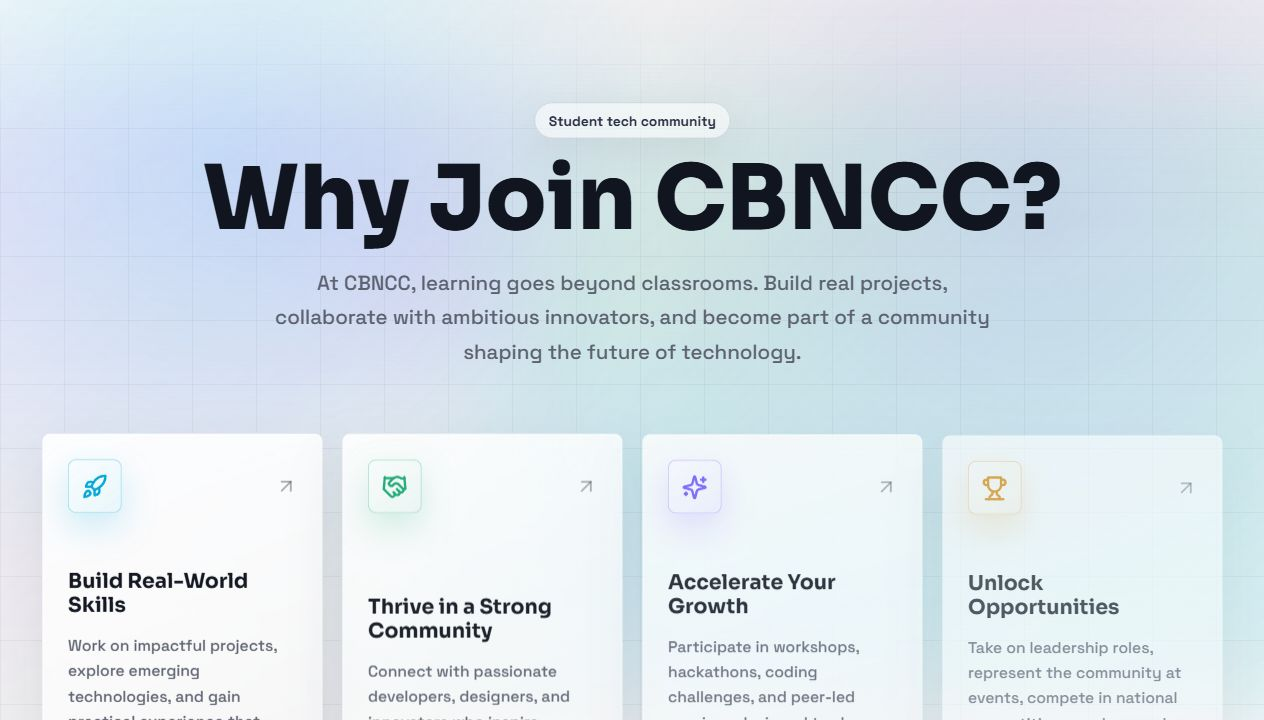
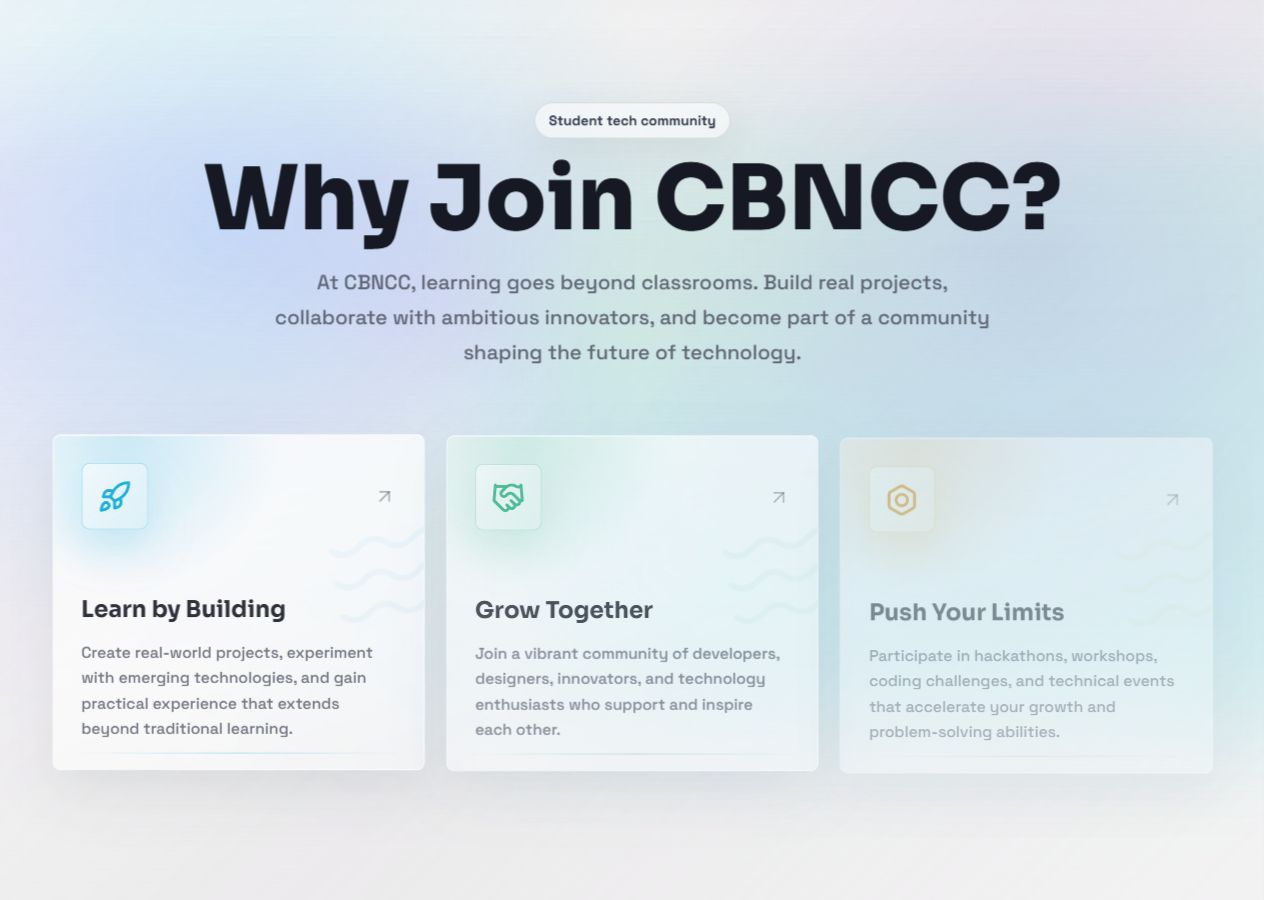
Create premium feature card section

diff --git a/src/styles.css b/src/styles.css
@@ -77,7 +77,7 @@ select {
 }
 
 .why-join__shell {
-  width: min(100%, 1180px);
+  width: min(100%, 1160px);
   margin: 0 auto;
 }
 
@@ -128,8 +128,8 @@ select {
 
 .why-join__grid {
   display: grid;
-  grid-template-columns: repeat(4, minmax(0, 1fr));
-  gap: clamp(1rem, 2vw, 1.25rem);
+  grid-template-columns: repeat(3, minmax(0, 1fr));
+  gap: clamp(1rem, 2vw, 1.35rem);
 }
 
 .benefit-card {
@@ -137,14 +137,15 @@ select {
   --card-glow: rgba(0, 167, 216, 0.2);
   position: relative;
   display: flex;
-  min-height: 22rem;
+  min-height: 21rem;
   flex-direction: column;
   justify-content: space-between;
   overflow: hidden;
   border: 1px solid rgba(255, 255, 255, 0.72);
   border-radius: 8px;
-  padding: clamp(1.2rem, 2vw, 1.55rem);
+  padding: clamp(1.25rem, 2.3vw, 1.75rem);
   background:
+    radial-gradient(circle at 20% 0%, var(--card-glow), transparent 34%),
     linear-gradient(145deg, rgba(255, 255, 255, 0.82), rgba(255, 255, 255, 0.43)),
     linear-gradient(180deg, rgba(255, 255, 255, 0.56), rgba(255, 255, 255, 0.2));
   box-shadow: 0 1px 0 rgba(255, 255, 255, 0.82) inset, 0 22px 54px rgba(22, 30, 46, 0.1);
@@ -195,6 +196,16 @@ select {
   --card-glow: rgba(216, 138, 10, 0.22);
 }
 
+.benefit-card[data-accent="blue"] {
+  --card-accent: #2f6dff;
+  --card-glow: rgba(47, 109, 255, 0.2);
+}
+
+.benefit-card[data-accent="rose"] {
+  --card-accent: #e0477c;
+  --card-glow: rgba(224, 71, 124, 0.2);
+}
+
 .benefit-card__shine {
   position: absolute;
   inset: -1px;
@@ -202,6 +213,18 @@ select {
   background: linear-gradient(115deg, transparent 0 36%, rgba(255, 255, 255, 0.56) 46%, transparent 58% 100%);
   opacity: 0;
   transform: translateX(-38%);
+  transition:
+    opacity 220ms ease,
+    transform 520ms cubic-bezier(0.2, 0.85, 0.2, 1);
+}
+
+.benefit-card__signal {
+  position: absolute;
+  right: -2.1rem;
+  top: 4.6rem;
+  color: var(--card-accent);
+  opacity: 0.055;
+  transform: rotate(-10deg) translate3d(0, 0, 0);
   transition:
     opacity 220ms ease,
     transform 520ms cubic-bezier(0.2, 0.85, 0.2, 1);
@@ -218,8 +241,8 @@ select {
 
 .benefit-card__icon {
   display: inline-grid;
-  width: 3.35rem;
-  height: 3.35rem;
+  width: 4.15rem;
+  height: 4.15rem;
   place-items: center;
   border: 1px solid color-mix(in srgb, var(--card-accent) 36%, rgba(255, 255, 255, 0.72));
   border-radius: 8px;
@@ -227,7 +250,7 @@ select {
     linear-gradient(145deg, rgba(255, 255, 255, 0.82), rgba(255, 255, 255, 0.36)),
     color-mix(in srgb, var(--card-accent) 12%, transparent);
   color: var(--card-accent);
-  box-shadow: 0 14px 34px var(--card-glow);
+  box-shadow: 0 18px 42px var(--card-glow);
   transition:
     transform 220ms ease,
     box-shadow 220ms ease;
@@ -245,7 +268,7 @@ select {
   z-index: 1;
   margin: auto 0 0;
   color: var(--ink);
-  font-size: clamp(1.18rem, 1.6vw, 1.48rem);
+  font-size: clamp(1.28rem, 1.8vw, 1.62rem);
   line-height: 1.18;
   font-weight: 700;
 }
@@ -255,7 +278,7 @@ select {
   z-index: 1;
   margin: 1rem 0 0;
   color: var(--muted);
-  font-size: clamp(0.98rem, 1.1vw, 1.03rem);
+  font-size: clamp(0.98rem, 1.08vw, 1.04rem);
   line-height: 1.62;
   font-weight: 500;
 }
@@ -264,6 +287,7 @@ select {
 .benefit-card:focus-visible {
   border-color: color-mix(in srgb, var(--card-accent) 40%, white);
   background:
+    radial-gradient(circle at 20% 0%, color-mix(in srgb, var(--card-accent) 24%, transparent), transparent 36%),
     linear-gradient(145deg, rgba(255, 255, 255, 0.92), rgba(255, 255, 255, 0.5)),
     linear-gradient(180deg, rgba(255, 255, 255, 0.66), rgba(255, 255, 255, 0.25));
   box-shadow: var(--shadow), 0 0 0 1px rgba(255, 255, 255, 0.56) inset;
@@ -284,7 +308,13 @@ select {
 .benefit-card:hover .benefit-card__icon,
 .benefit-card:focus-visible .benefit-card__icon {
   box-shadow: 0 18px 42px var(--card-glow);
-  transform: translate3d(0, -4px, 0) scale(1.035);
+  transform: translate3d(0, -5px, 0) scale(1.045) rotate(-2deg);
+}
+
+.benefit-card:hover .benefit-card__signal,
+.benefit-card:focus-visible .benefit-card__signal {
+  opacity: 0.11;
+  transform: rotate(-5deg) translate3d(-0.5rem, -0.5rem, 0) scale(1.08);
 }
 
 .benefit-card:hover .benefit-card__arrow,
@@ -328,7 +358,7 @@ select {
   }
 
   .benefit-card {
-    min-height: 18rem;
+    min-height: 18.25rem;
   }
 }
 
@@ -369,8 +399,18 @@ select {
   }
 
   .benefit-card {
-    min-height: 16.5rem;
+    min-height: 17.25rem;
     padding: 1.15rem;
+  }
+
+  .benefit-card__icon {
+    width: 3.75rem;
+    height: 3.75rem;
+  }
+
+  .benefit-card__signal {
+    top: 4.2rem;
+    right: -2.8rem;
   }
 
   .benefit-card:hover {

diff --git a/src/sections/WhyJoinCBNCC.tsx b/src/sections/WhyJoinCBNCC.tsx
@@ -1,4 +1,4 @@
-import { ArrowUpRight, Handshake, Rocket, Sparkles, Trophy } from "lucide-react";
+import { ArrowUpRight, Bolt, Globe2, Handshake, Rocket, Sparkles, Trophy, Waves } from "lucide-react";
 import type { CSSProperties, PointerEvent } from "react";
 import type { LucideIcon } from "lucide-react";
 import { useEffect, useRef } from "react";
@@ -12,32 +12,46 @@ type Benefit = {
 
 const benefits: Benefit[] = [
   {
-    title: "Build Real-World Skills",
+    title: "Learn by Building",
     description:
-      "Work on impactful projects, explore emerging technologies, and gain practical experience that goes beyond theory.",
+      "Create real-world projects, experiment with emerging technologies, and gain practical experience that extends beyond traditional learning.",
     Icon: Rocket,
     accent: "cyan"
   },
   {
-    title: "Thrive in a Strong Community",
+    title: "Grow Together",
     description:
-      "Connect with passionate developers, designers, and innovators who inspire, support, and grow together.",
+      "Join a vibrant community of developers, designers, innovators, and technology enthusiasts who support and inspire each other.",
     Icon: Handshake,
     accent: "green"
   },
   {
-    title: "Accelerate Your Growth",
+    title: "Push Your Limits",
     description:
-      "Participate in workshops, hackathons, coding challenges, and peer-led sessions designed to sharpen your technical expertise.",
+      "Participate in hackathons, workshops, coding challenges, and technical events that accelerate your growth and problem-solving abilities.",
+    Icon: Bolt,
+    accent: "amber"
+  },
+  {
+    title: "Create Impact",
+    description:
+      "Lead initiatives, organize events, contribute to meaningful projects, and leave a lasting impact on the community.",
     Icon: Sparkles,
     accent: "violet"
   },
   {
-    title: "Unlock Opportunities",
+    title: "Industry Connect",
     description:
-      "Take on leadership roles, represent the community at events, compete in national competitions, and expand your professional network.",
+      "Engage with professionals, mentors, alumni, and industry leaders while gaining exposure to the latest technology trends.",
+    Icon: Globe2,
+    accent: "blue"
+  },
+  {
+    title: "Showcase Excellence",
+    description:
+      "Build a strong portfolio, demonstrate your skills through projects and competitions, and stand out as a future-ready innovator.",
     Icon: Trophy,
-    accent: "amber"
+    accent: "rose"
   }
 ];
 
@@ -110,9 +124,10 @@ export function WhyJoinCBNCC() {
               tabIndex={0}
             >
               <div className="benefit-card__shine" aria-hidden="true" />
+              <Waves className="benefit-card__signal" aria-hidden="true" size={132} strokeWidth={1.1} />
               <div className="benefit-card__topline">
                 <span className="benefit-card__icon" aria-hidden="true">
-                  <Icon size={26} strokeWidth={2.2} />
+                  <Icon size={34} strokeWidth={2.05} />
                 </span>
                 <ArrowUpRight className="benefit-card__arrow" aria-hidden="true" size={22} />
               </div>
